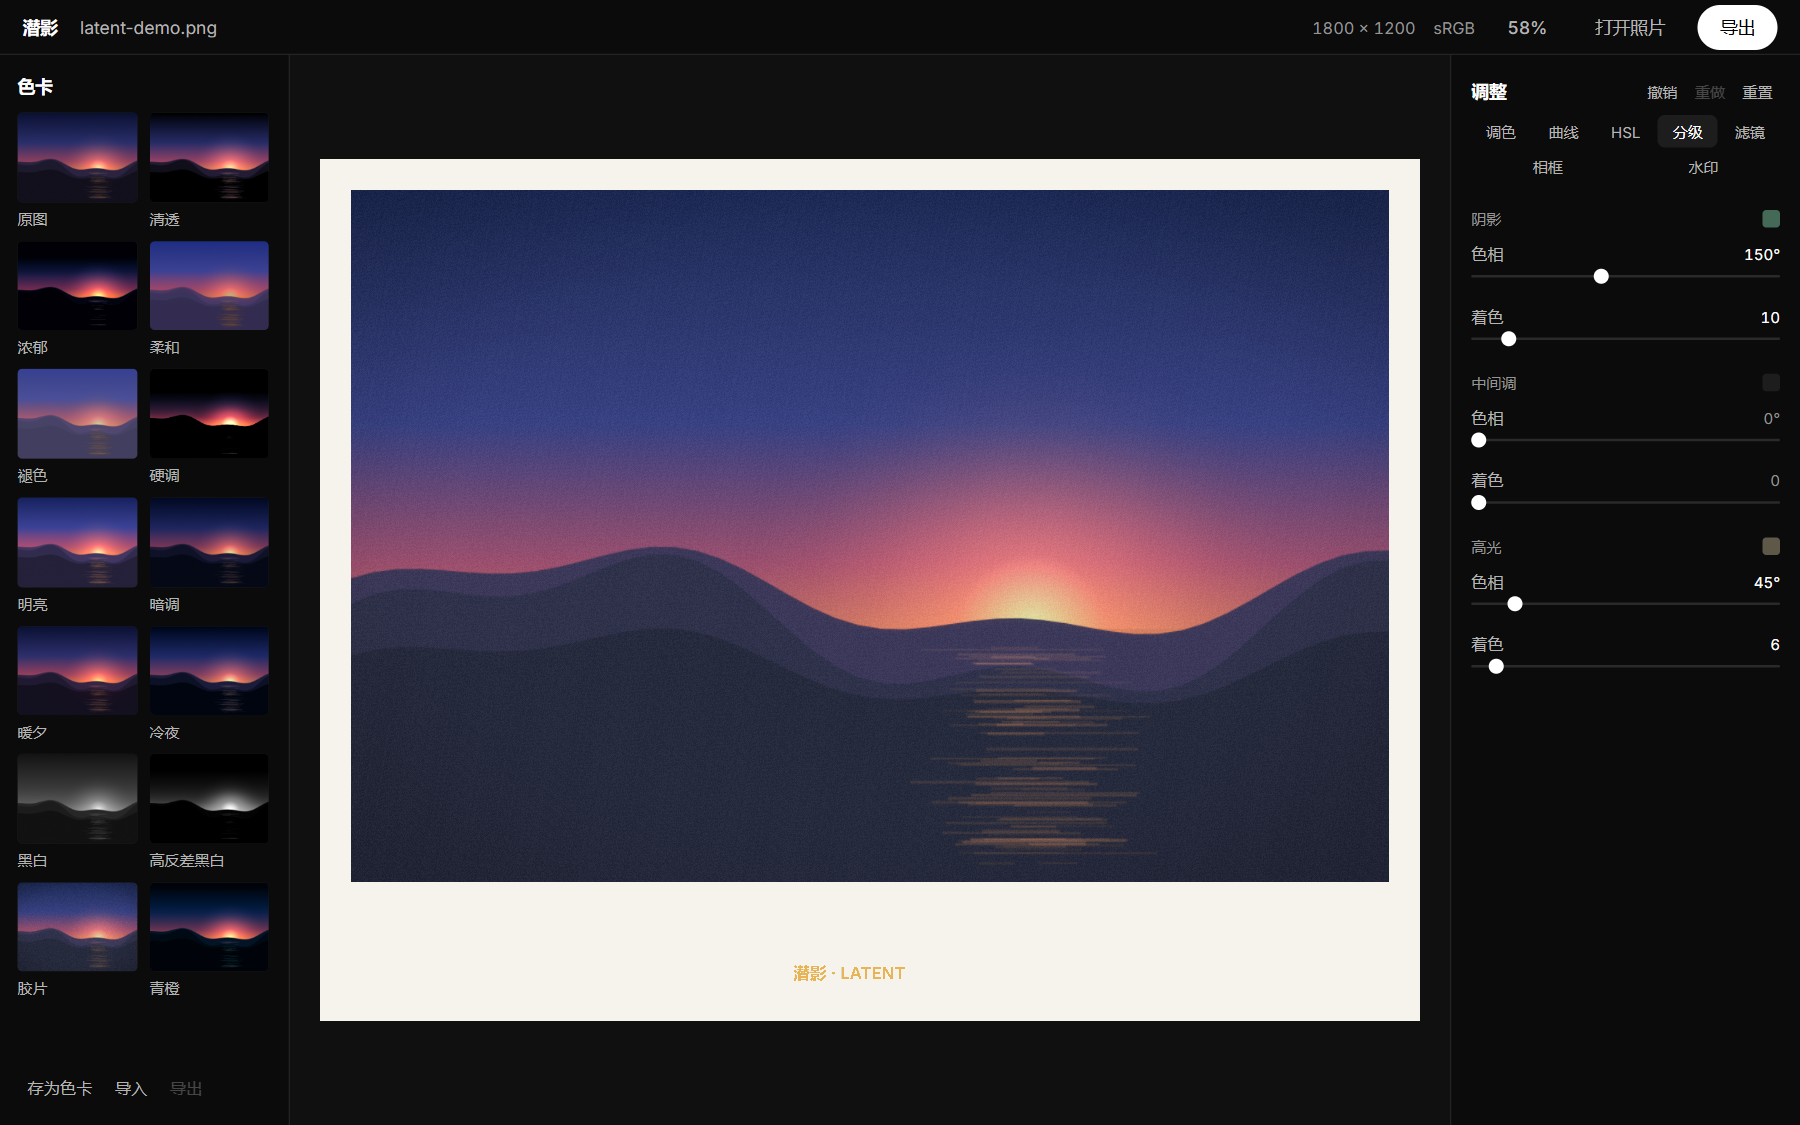
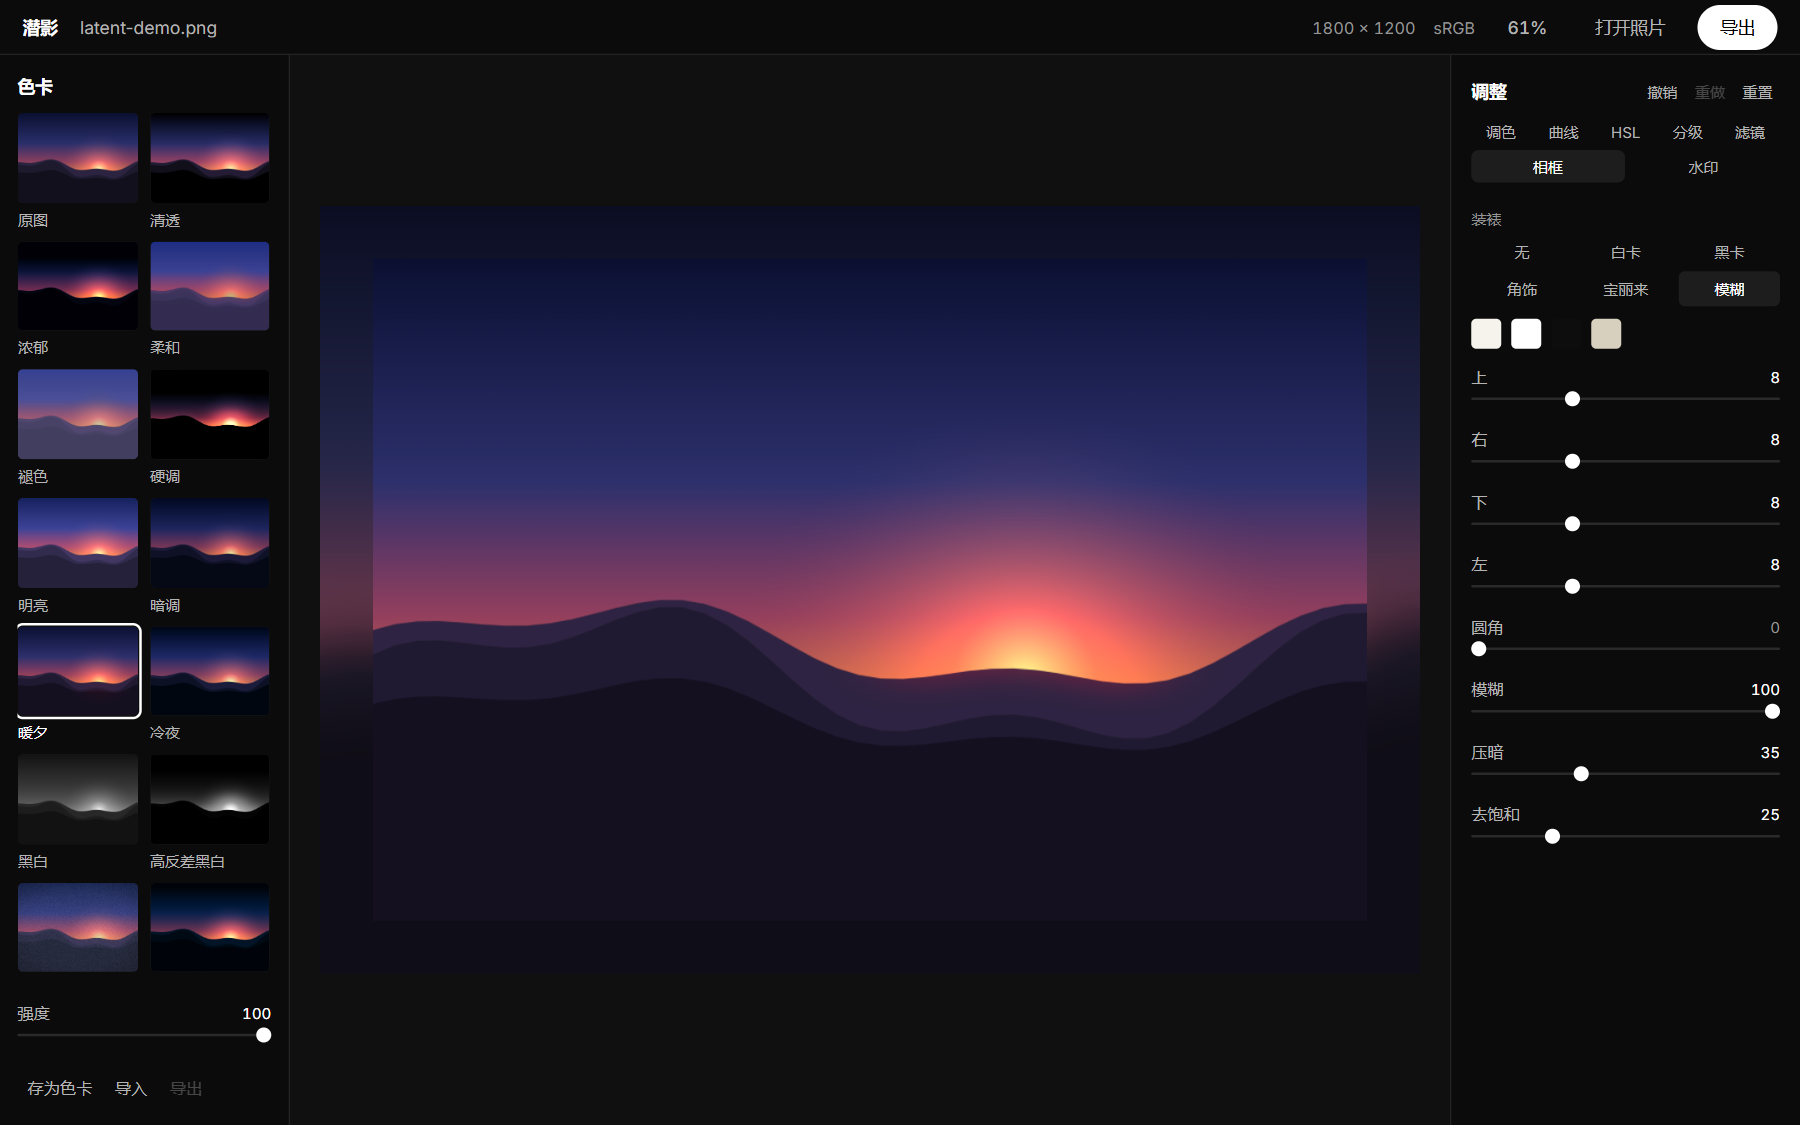
Docs: show the blurred fill frame in the screenshot

diff --git a/README.md b/README.md
@@ -17,7 +17,7 @@ npm test              # 像素级测试
 
 ![编辑器](docs/editor.png)
 
-左栏是色卡——每一格都是**当前这张照片本身**变成那种调子的样子，不是素材带。中间是装裱与题注（水印可以落在卡纸的题注带上）。右栏是参数面板，分 调色 / 曲线 / HSL / 分级 / 滤镜 / 相框 / 水印 七页。
+左栏是色卡——每一格都是**当前这张照片本身**变成那种调子的样子，不是素材带。中间这张套了「模糊」边框：四周不是色块，是这张照片自己的失焦版本（可以先压暗、去饱和，强度 0 就退回卡纸）。右栏是相框参数，面板共七页：调色 / 曲线 / HSL / 分级 / 滤镜 / 相框 / 水印。
 
 <img src="docs/mobile.png" width="330" alt="手机上的同一套界面">
 
